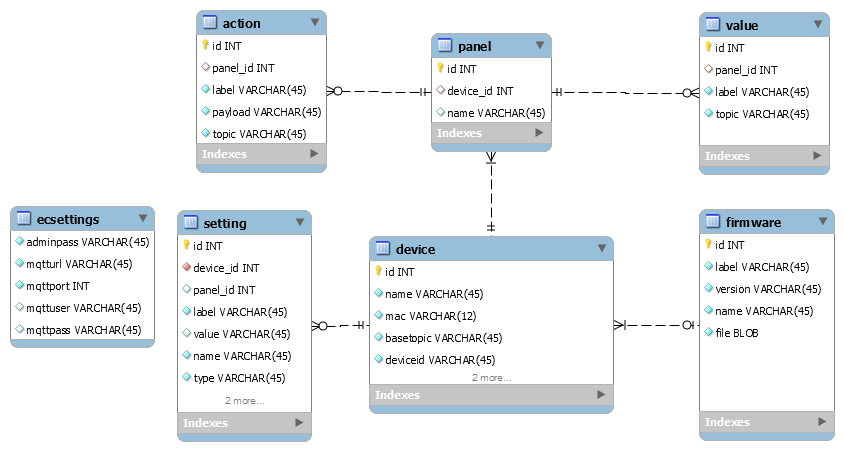
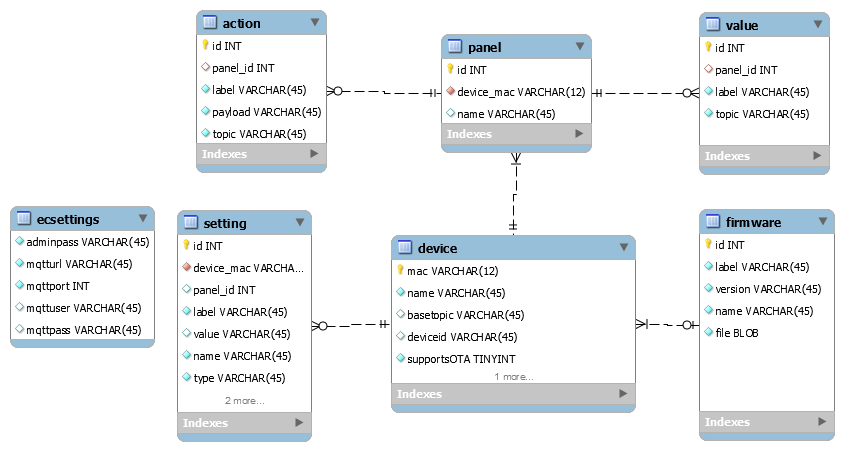
implemented device/delete

diff --git a/src/ch/ffhs/pa5/escapeconnect/persistency/DBAdapter.java b/src/ch/ffhs/pa5/escapeconnect/persistency/DBAdapter.java
@@ -2,6 +2,7 @@ package ch.ffhs.pa5.escapeconnect.persistency;
 
 import java.sql.Connection;
 import java.sql.DatabaseMetaData;
+import java.sql.DriverManager;
 import java.sql.ResultSet;
 import java.sql.SQLException;
 import java.sql.Statement;
@@ -12,16 +13,24 @@ import javax.naming.NamingException;
 import javax.sql.DataSource;
 import javax.ws.rs.WebApplicationException;
 
+import org.sqlite.SQLiteConfig;
+
 public class DBAdapter {
 
 	public static Connection getConnection() throws WebApplicationException {
 		try {
 			Context ctx = new InitialContext();
 			DataSource ds = (DataSource) ctx.lookup("java:/comp/env/jdbc/escapeconnect");
-			return ds.getConnection();
+			Connection con = ds.getConnection();
+			Statement st = con.createStatement();
+			st.execute("PRAGMA foreign_keys=on;");
+			st.close();
+			return con;
 		} catch (NamingException e) {
+			e.printStackTrace();
 			throw new WebApplicationException(e.getMessage());
 		} catch (SQLException e) {
+			e.printStackTrace();
 			throw new WebApplicationException(e.getMessage());
 		}		
 	}
@@ -32,7 +41,6 @@ public class DBAdapter {
 			DataSource ds = (DataSource) ctx.lookup("java:/comp/env/jdbc/escapeconnect");
 			try (Connection con = ds.getConnection();
 				Statement stmt = con.createStatement()){
-				
 				DatabaseMetaData md = con.getMetaData();
 		        ResultSet rs = md.getTables(null, null, "ecsettings", null);
 		        if(rs.next()) return; //If table allready exists, stop creation
@@ -41,6 +49,7 @@ public class DBAdapter {
 				 // BuildMyString.com generated code. Please enjoy your string responsibly.
 
 				String query = 
+				"PRAGMA foreign_keys=on;" + 
 				"BEGIN;" +
 				"CREATE TABLE IF NOT EXISTS \"ecsettings\"(" +
 				"  \"adminpass\" VARCHAR(45) NOT NULL," +
@@ -58,8 +67,8 @@ public class DBAdapter {
 				"  \"file\" BLOB NOT NULL" +
 				");" +
 				"CREATE TABLE IF NOT EXISTS \"device\"(" +
-				"  \"name\" VARCHAR(45) NOT NULL," +
 				"  \"mac\" VARCHAR(12) PRIMARY KEY NOT NULL," +
+				"  \"name\" VARCHAR(45) NOT NULL," +
 				"  \"basetopic\" VARCHAR(45)," +
 				"  \"deviceid\" VARCHAR(45)," +
 				"  \"supportsOTA\" INTEGER DEFAULT 0," +
@@ -72,16 +81,16 @@ public class DBAdapter {
 				");" +
 				"CREATE INDEX IF NOT EXISTS \"device.device_firmware_id_idx\" ON \"device\" (\"firmware_id\");" +
 				"CREATE TABLE IF NOT EXISTS \"panel\"(" +
-				"  \"id\" INTEGER PRIMARY KEY NOT NULL," +
-				"  \"device_mac\" VARCHAR(12)," +
+				"  \"id\" INTEGER PRIMARY KEY NOT NULL," + 
+				"  \"device_mac\" VARCHAR(12) NOT NULL," +
 				"  \"name\" VARCHAR(45)," +
-				"  CONSTRAINT \"device_mac\"" +
-				"    FOREIGN KEY(\"device_mac\")" +
-				"    REFERENCES \"device\"(\"mac\")" +
+				"CONSTRAINT \"fk_panel_device1\"" +
+				"  FOREIGN KEY(\"device_mac\")" +
+				"  REFERENCES \"device\"(\"mac\")" +
 				"    ON DELETE CASCADE" +
 				"    ON UPDATE CASCADE" +
-				");" +
-				"CREATE INDEX IF NOT EXISTS \"panel.device_id_idx\" ON \"panel\" (\"device_mac\");" +
+				");" + 
+				"CREATE INDEX \"panel.fk_panel_device1_idx\" ON \"panel\" (\"device_mac\"); " +
 				"CREATE TABLE IF NOT EXISTS \"value\"(" +
 				"  \"id\" INTEGER PRIMARY KEY NOT NULL," +
 				"  \"panel_id\" INTEGER," +

diff --git a/src/ch/ffhs/pa5/escapeconnect/persistency/DAOdevice.java b/src/ch/ffhs/pa5/escapeconnect/persistency/DAOdevice.java
@@ -10,7 +10,7 @@ import ch.ffhs.pa5.escapeconnect.bean.DeviceDAOBean;
 
 public class DAOdevice {
 	public static void write(DeviceDAOBean device) {
-		String query = "INSERT INTO device VALUES(?,?,?,?,?,?)" + 
+		String query = "INSERT INTO device (name,mac,basetopic,deviceid,supportsOTA,firmware_id) VALUES(?,?,?,?,?,?)" + 
 				"  ON CONFLICT(mac) DO UPDATE SET name=?, basetopic=?, deviceid=?, supportsOTA=?,firmware_id=? WHERE mac=?;";
 		
 		//Connection con = DBAdapter.getConnection();
@@ -32,10 +32,30 @@ public class DAOdevice {
 			pstm.setBoolean(5, device.issupportsOTA());
 			pstm.setBoolean(10, device.issupportsOTA());
 			
-			pstm.setInt(6, device.getFirmwareid());
-			pstm.setInt(11, device.getFirmwareid());
+			int firmwareid = device.getFirmwareid();
+			if(firmwareid>0) {
+				pstm.setInt(6, device.getFirmwareid());
+				pstm.setInt(11, device.getFirmwareid());
+			}else {
+				pstm.setNull(6, java.sql.Types.INTEGER);
+				pstm.setNull(11, java.sql.Types.INTEGER);
+			}
+			pstm.executeUpdate();
+			pstm.close();
+		} catch (SQLException e) {
+			e.printStackTrace();
+			throw new WebApplicationException(e.getMessage());
+		}
+	}
 
-			pstm.execute();
+	public static void delete(String mac) {
+		String query = "DELETE FROM device WHERE mac=?;";
+		
+		//Connection con = DBAdapter.getConnection();
+		try (Connection con = DBAdapter.getConnection();
+				PreparedStatement pstm = con.prepareStatement(query);){
+			pstm.setString(1, mac);
+			pstm.executeUpdate();
 			pstm.close();
 		} catch (SQLException e) {
 			e.printStackTrace();

diff --git a/src/ch/ffhs/pa5/escapeconnect/api/DeviceApi.java b/src/ch/ffhs/pa5/escapeconnect/api/DeviceApi.java
@@ -77,11 +77,11 @@ public class DeviceApi  {
     @io.swagger.annotations.ApiOperation(value = "Entfernen eines Gerätes", notes = "", response = Void.class, tags={ "device", })
     @io.swagger.annotations.ApiResponses(value = { 
         @io.swagger.annotations.ApiResponse(code = 200, message = "Erfolgreich gelöscht", response = Void.class) })
-    public Response deleteDevice(@ApiParam(value = "Id des devices welches upgedatet werden soll",required=true) @QueryParam("deviceid") Integer deviceid
+    public Response deleteDevice(@ApiParam(value = "Id des devices welches upgedatet werden soll",required=true) @QueryParam("devicemac") String devicemac
 ,@ApiParam(value = "Muss gesetzt werden, zusätzliche Sicherheit") @QueryParam("forces") Boolean forces
 ,@Context SecurityContext securityContext)
     throws NotFoundException {
-        return delegate.deleteDevice(deviceid,forces,securityContext);
+        return delegate.deleteDevice(devicemac,forces,securityContext);
     }
 
     @POST

diff --git a/src/ch/ffhs/pa5/escapeconnect/api/DeviceApiService.java b/src/ch/ffhs/pa5/escapeconnect/api/DeviceApiService.java
@@ -13,7 +13,7 @@ public interface DeviceApiService {
     
     public Response addDevice(AddDeviceBody addDeviceBody,SecurityContext securityContext);
     
-    public Response deleteDevice( @NotNull Integer deviceid, Boolean forces,SecurityContext securityContext);
+    public Response deleteDevice( @NotNull String devicemac, Boolean forces,SecurityContext securityContext);
     
     public Response upgradeFirmware(UpdateDeviceBody body, @NotNull Integer deviceid, Boolean forces,SecurityContext securityContext);
     

diff --git a/src/ch/ffhs/pa5/escapeconnect/utils/MACformating.java b/src/ch/ffhs/pa5/escapeconnect/utils/MACformating.java
@@ -1,0 +1,8 @@
+package ch.ffhs.pa5.escapeconnect.utils;
+
+public class MACformating {
+	public static String sanitizeMAC(String mac) {
+		String newmac = mac.toLowerCase().replaceAll("[:-]", "");
+		return newmac;
+	}
+}
